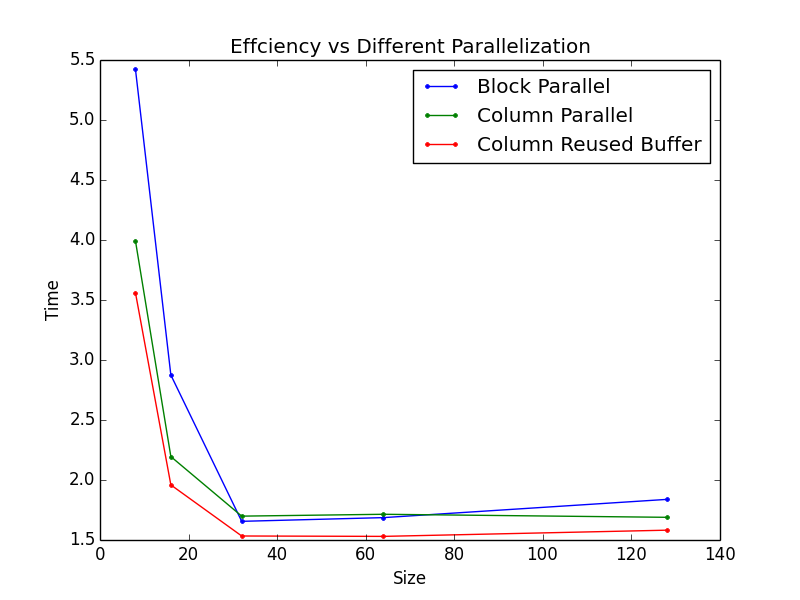
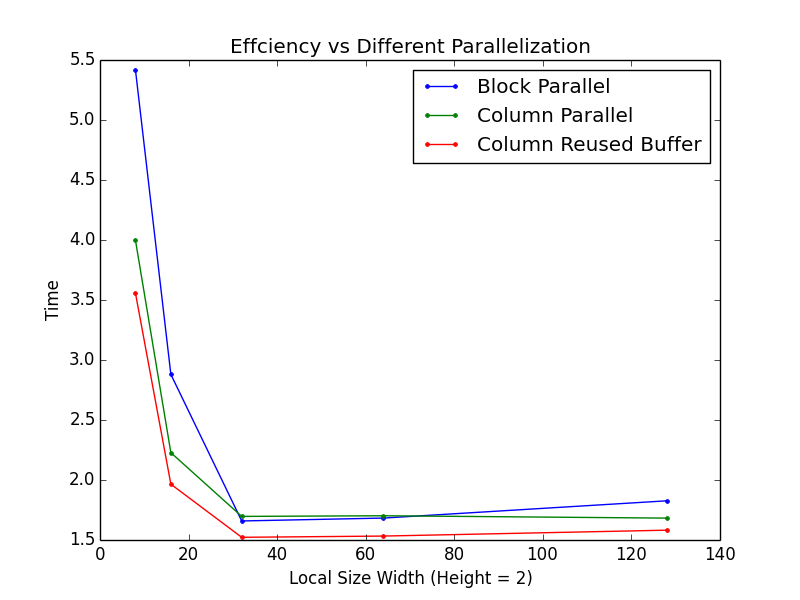
Image Added

Changed region(s): [[0.1875, 0.6, 0.8438, 0.9], [0.375, 0.93, 0.6562, 0.99]]

diff --git a/aniso_openCL.py b/aniso_openCL.py
@@ -136,7 +136,7 @@ if __name__ == '__main__':
             times.append(t1.interval)
         pylab.plot(size1, times, label = labels[method], marker = ".")
         pylab.title("Effciency vs Different Parallelization")
-        pylab.xlabel("Size")
+        pylab.xlabel("Local Size Width (Height = 2)")
         pylab.ylabel("Time")
         pylab.legend(loc="best")
     pylab.show()
